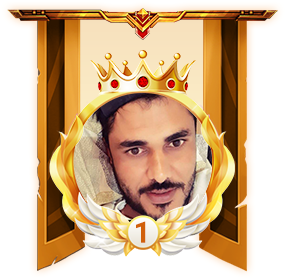
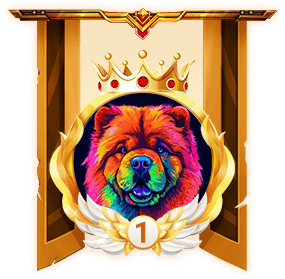
profile image has been updated

diff --git a/index.html b/index.html
@@ -1649,7 +1649,7 @@
           <tr class="frames">
             <td class="td1">
               <div class="silverPro">
-                <a href="http://www.kktv1.com/m/?roomid=648978283"><img src="img/Talent/2nd talent.png" alt="img" /></a>
+                <a href="http://www.kktv1.com/m/?roomid=648978283"><img src="img/Talent/Dance/secondProfile.png" alt="img" /></a>
 
               </div>
               <div class="frameText">
@@ -1662,7 +1662,7 @@
             </td>
             <td class="td2">
               <div class="goldPro">
-                <a href="http://www.kktv1.com/m/?roomid=586652371"><img src="img/Talent/1st Talent.png" alt="" /></a>
+                <a href="http://www.kktv1.com/m/?roomid=586652371"><img src="img/Talent/Dance/fristProfile.png" alt="" /></a>
 
               </div>
               <div class="frameText">
@@ -1675,7 +1675,7 @@
             </td>
             <td class="td3">
               <div class="bronzePro">
-                <a href="http://www.kktv1.com/m/?roomid=653583789"><img src="img/Talent/3rd talent.png" alt="" /></a>
+                <a href="http://www.kktv1.com/m/?roomid=653583789"><img src="img/Talent/Dance/thirdProfile.png" alt="" /></a>
 
               </div>
               <div class="frameText">
@@ -1700,7 +1700,7 @@
           <tr class="frames">
             <td class="td1">
               <div class="silverPro">
-                <a href="http://www.kktv1.com/m/?roomid=655298820"><img src="img/Talent/2nd talent.png" alt="img" /></a>
+                <a href="http://www.kktv1.com/m/?roomid=655298820"><img src="img/Talent/Shayri/secondProfile.png" alt="img" /></a>
   
               </div>
               <div class="frameText">
@@ -1713,7 +1713,7 @@
             </td>
             <td class="td2">
               <div class="goldPro">
-                <a href="http://www.kktv1.com/m/?roomid=652406713"><img src="img/Talent/1st Talent.png" alt="" /></a>
+                <a href="http://www.kktv1.com/m/?roomid=652406713"><img src="img/Talent/Shayri/firstProfile.png" alt="" /></a>
   
               </div>
               <div class="frameText">
@@ -1726,7 +1726,7 @@
             </td>
             <td class="td3">
               <div class="bronzePro">
-                <a href="http://www.kktv1.com/m/?roomid=648464501"><img src="img/Talent/3rd talent.png" alt="" /></a>
+                <a href="http://www.kktv1.com/m/?roomid=648464501"><img src="img/Talent/Shayri/thirdProfile.png" alt="" /></a>
   
               </div>
               <div class="frameText">
@@ -1751,7 +1751,7 @@
           <tr class="frames">
             <td class="td1">
               <div class="silverPro">
-                <a href="http://www.kktv1.com/m/?roomid=557831534"><img src="img/Talent/2nd talent.png" alt="img" /></a>
+                <a href="http://www.kktv1.com/m/?roomid=557831534"><img src="img/Talent/Fashion/secondProfile.png" alt="img" /></a>
   
               </div>
               <div class="frameText">
@@ -1764,7 +1764,7 @@
             </td>
             <td class="td2">
               <div class="goldPro">
-                <a href="http://www.kktv1.com/m/?roomid=642893073"><img src="img/Talent/1st Talent.png" alt="" /></a>
+                <a href="http://www.kktv1.com/m/?roomid=642893073"><img src="img/Talent/Fashion/firstProfile.png" alt="" /></a>
   
               </div>
               <div class="frameText">
@@ -1777,7 +1777,7 @@
             </td>
             <td class="td3">
               <div class="bronzePro">
-                <a href="http://www.kktv1.com/m/?roomid=654855366"><img src="img/Talent/3rd talent.png" alt="" /></a>
+                <a href="http://www.kktv1.com/m/?roomid=654855366"><img src="img/Talent/Fashion/thirdProfile.png" alt="" /></a>
   
               </div>
               <div class="frameText">
